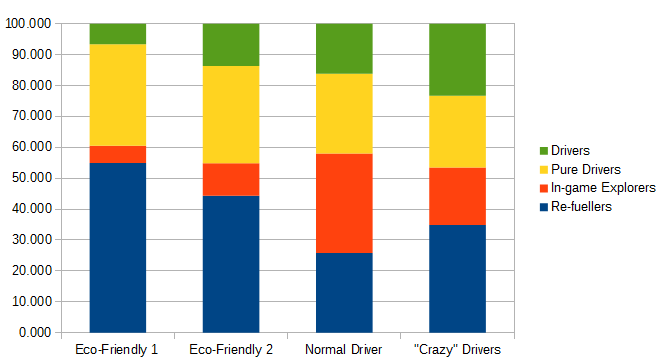
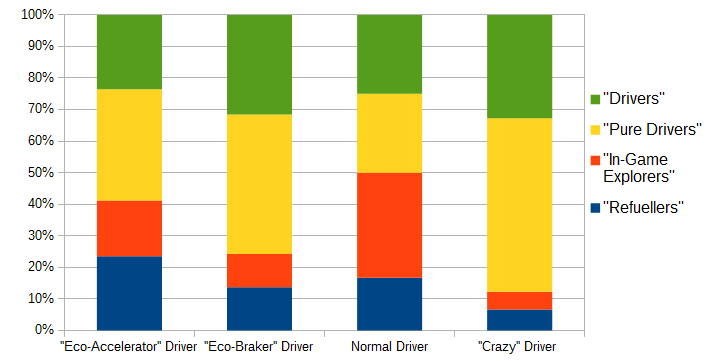
Image captions

diff --git a/ijhcs-2014.tex b/ijhcs-2014.tex
@@ -643,37 +643,24 @@ Using the 'elbow' heuristic to minimize the Sum of squares due to error (Equatio
 As expected driving takes up the majority of time spent in the game. Moreover the majority of players, only engages on the driving aspect of the game as we can see on the Cluster 3, which we labeled as "Pure Drivers". 
 }
 
-In Figure \ref{fig:activity_driving} we can also notice that being only interested on the driving aspect of the game is prevalent across every type of driver. However the players selected for the driving clustering (those who played the longest), also manifested interest in exploring every activity iCO$_2$ has to offer, a profile illustrated by the activity cluster 2.
+In Figure \ref{fig:activity_driving} we can also notice that being only interested on the driving aspect of the game is prevalent across every type of driver. 
+If we consider being interested in only the driving aspect the profiles "Drives" and "Pure Drivers", we see that only the Normal Drivers have an equal percentage of players only interested on the driving aspect and those who focused a lot on exploring other game activities, such as browsing and buying upgrades, painting cars, etc... 
 
-Surprisingly the activity profile associated with more time spent at the gas station has a high prevalence among the eco-friendly. Two possible hypotheses to explain this behavior is the fact that the more eco-friendly users were more conscious of their fuel tank data at all time. The cluster labels as ''Refuelers'' is also one of which has more time spent on Route planning (Navigator), and manifested curiosity to try the various activities the game has to offer. On the other hand, and not so surprisingly, those players labeled as "Crazy Drivers" also had more tendency to be "Refuellers" (35\%). It's curious that this activity profile tends to be more prevalent either with those who comply strictly with the game goal. 
+However the players selected for the driving clustering (those who played the longest), also manifested interest in exploring every activity iCO$_2$ has to offer, those profiles are illustrated by the activity cluster labeled "In-Game Explorers" and "Refuellers".
 
-The probability of being a driver (a user that spends almost all of his time driving), while still participating in other game activities, tends to increase with being a less eco-friendly driver.
+Surprisingly the activity profile associated with more time spent at the gas station has a high prevalence among the eco-friendly drivers ("Eco-Brakers" and "Eco-Accelerators"). Two possible hypotheses to explain this behavior is the fact that the more eco-friendly users were more conscious of their fuel tank data at all time. The cluster labels as ''Refuelers'' is also one of which has more time spent on Route planning (Navigator), and manifested curiosity to try the various activities the game has to offer. On the other hand, and not so surprisingly, those players labeled as "Crazy Drivers" also had more tendency to be "Pure Drivers" (35\%), and the lowest prevalence of ''Refuelers'. It's curious that this activity profile (''Refuelers'), tends to be more prevalent either with those who comply more with the game goal. 
 
 Normal drivers had the highest percentage of "In-game Explorers".
 
 
-%\begin{table}[!h]
-%	\renewcommand*{\arraystretch}{1.2}
-%	\caption{Joint distribution of player driving profile and in-game activity profile.}
-%	\begin{center}
-%		\begin{tabular}{c|c|c|c|c}
-%			& Activity & Activity& Activity& Activity \\
-%			Driving Behavior	& Cluster 1 &	Cluster 2 &	Cluster 3 &	Cluster 4 	\\
-%			Cluster 1 &	0.010 &	0.015 &	0.013 &	0.005 \\
-%			Cluster 3 &	0.003 &	0.010 &	0.008 &	0.010 \\
-%			Cluster 4 &	0.028 & 0.268 &	0.130 &	0.0251  \\
-%			Cluster 2 &	 0.058 &	 0.226 &	0.143 & 0.050  \\
-%		\end{tabular}
-%	\end{center}
-%	\label{T:joint_activity_driving}
-%\end{table}
 
 \begin{figure}[htb]
 	\begin{center}
 		\includegraphics[width=.8\linewidth]{ijhcs14-img/cluster_activities_driver_types}
-		\caption{Distribution of the activity clusters among the user's driving profile.\label{fig:activity_driving}}
+		\caption{Distribution of the activity clusters among the user's driving profile. Given the driver profile we study the prevalence of the in-game activities profile. Surprisingly the players who spend a great part of their time at the gas station tend not to have a big probability of being crazy drivers. \label{fig:activity_driving}}
 	\end{center}
 \end{figure}
+
 
 
 
